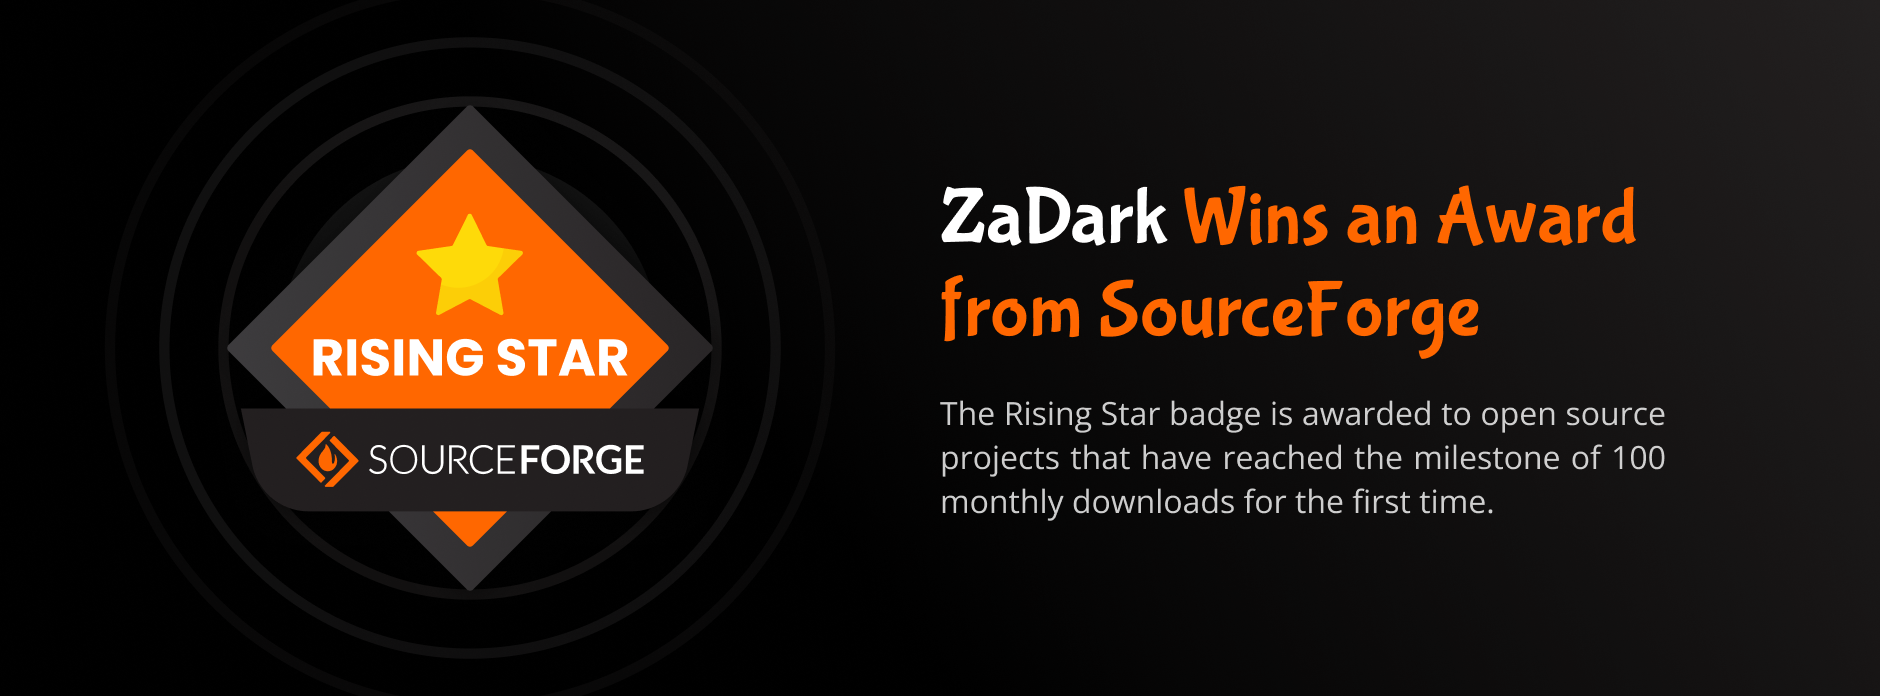
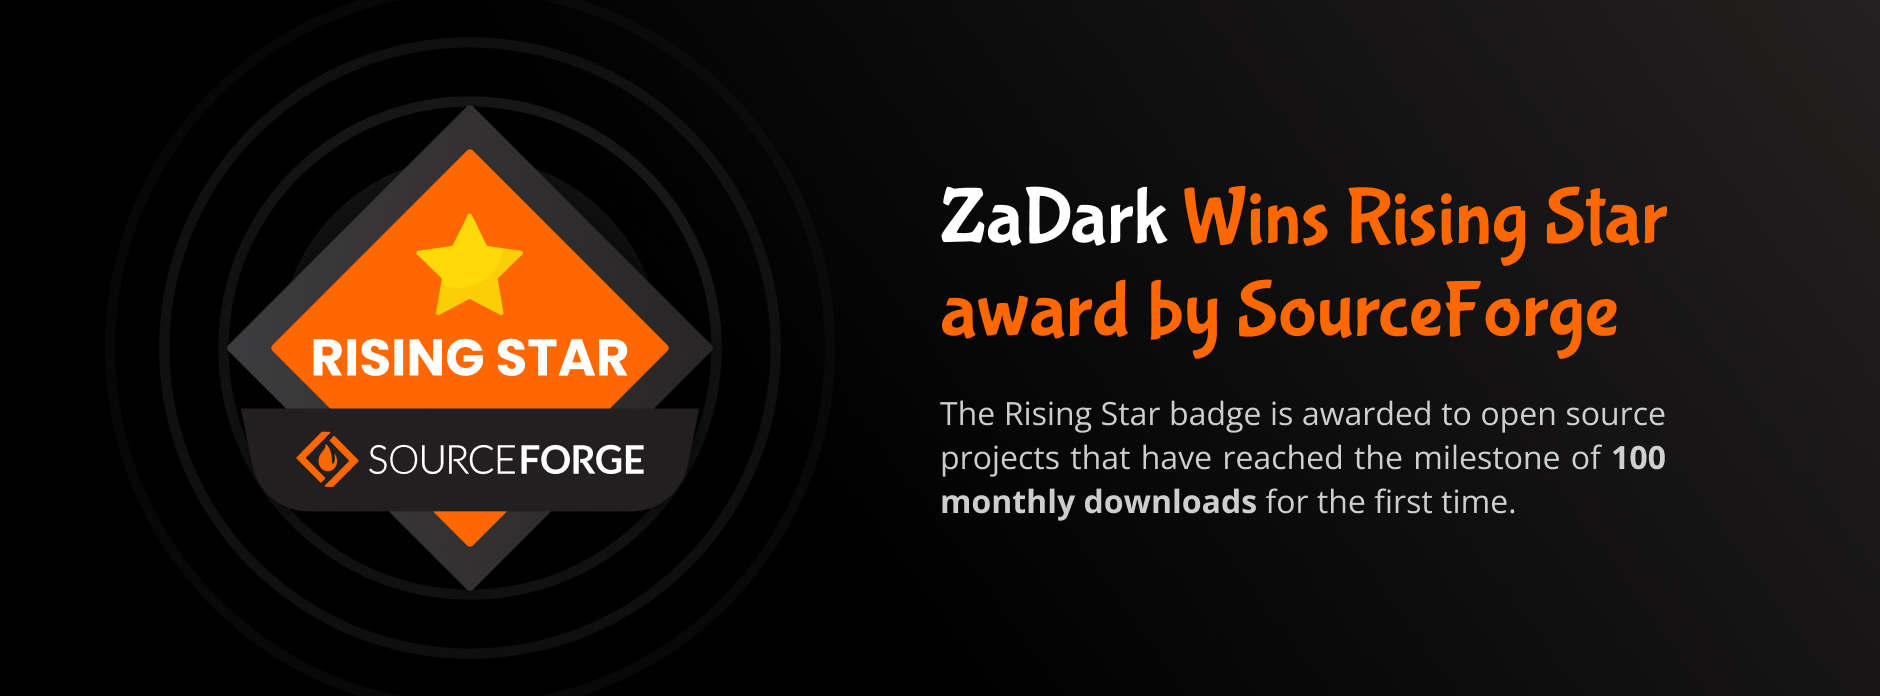
README.md : Add Favorite award by SourceForge

diff --git a/README.md b/README.md
@@ -217,7 +217,7 @@ yarn dist
   - Download from **Chrome Web Store**: https://short.ncdaistudio.com/zadark-chrome
   - Tutorial: https://short.ncdaistudio.com/zadark-chrome-tut
 - Firefox
-  - Download from **Firefox Browser Add-ons**: https://short.ncdaistudio.com/zadark-firefox
+  - Download from **Firefox Browser Add-ons**: `https://short.ncdaistudio.com/zadark-firefox`
   - Tutorial: https://short.ncdaistudio.com/zadark-firefox-tut
 - Opera
   - Download from **Opera Add-ons**: https://short.ncdaistudio.com/zadark-opera
@@ -313,11 +313,19 @@ Thanks to 1Password for helping teams work more efficiently and securely.
 
 ### Rising Star award by SourceForge
 
-ZaDark has just been recognized with a Rising Star award by SourceForge. This honor is awarded only to select projects that have reached significant milestones in terms of downloads and user engagement from the SourceForge community.
+ZaDark Wins Rising Star award by SourceForge. The Rising Star badge is awarded to open source projects that have reached the milestone of **100 monthly downloads** for the first time.
+
+> Thanks to everyone for trusting and using ZaDark!
 
 ![Rising Star award by SourceForge](.github/sourceforge-rising-star.png)
 
-Thanks to everyone for trusting and using ZaDark!
+### Favorite award by SourceForge
+
+ZaDark Wins Favorite award by SourceForge. The SourceForge Favorite badge is awarded to open source projects that have reached the milestone of **2,000 monthly downloads** for the first time.
+
+> Thanks to everyone for trusting and using ZaDark!
+
+![Favorite award by SourceForge](.github/sourceforge-favorite.png)
 
 ## Acknowledgments
 
